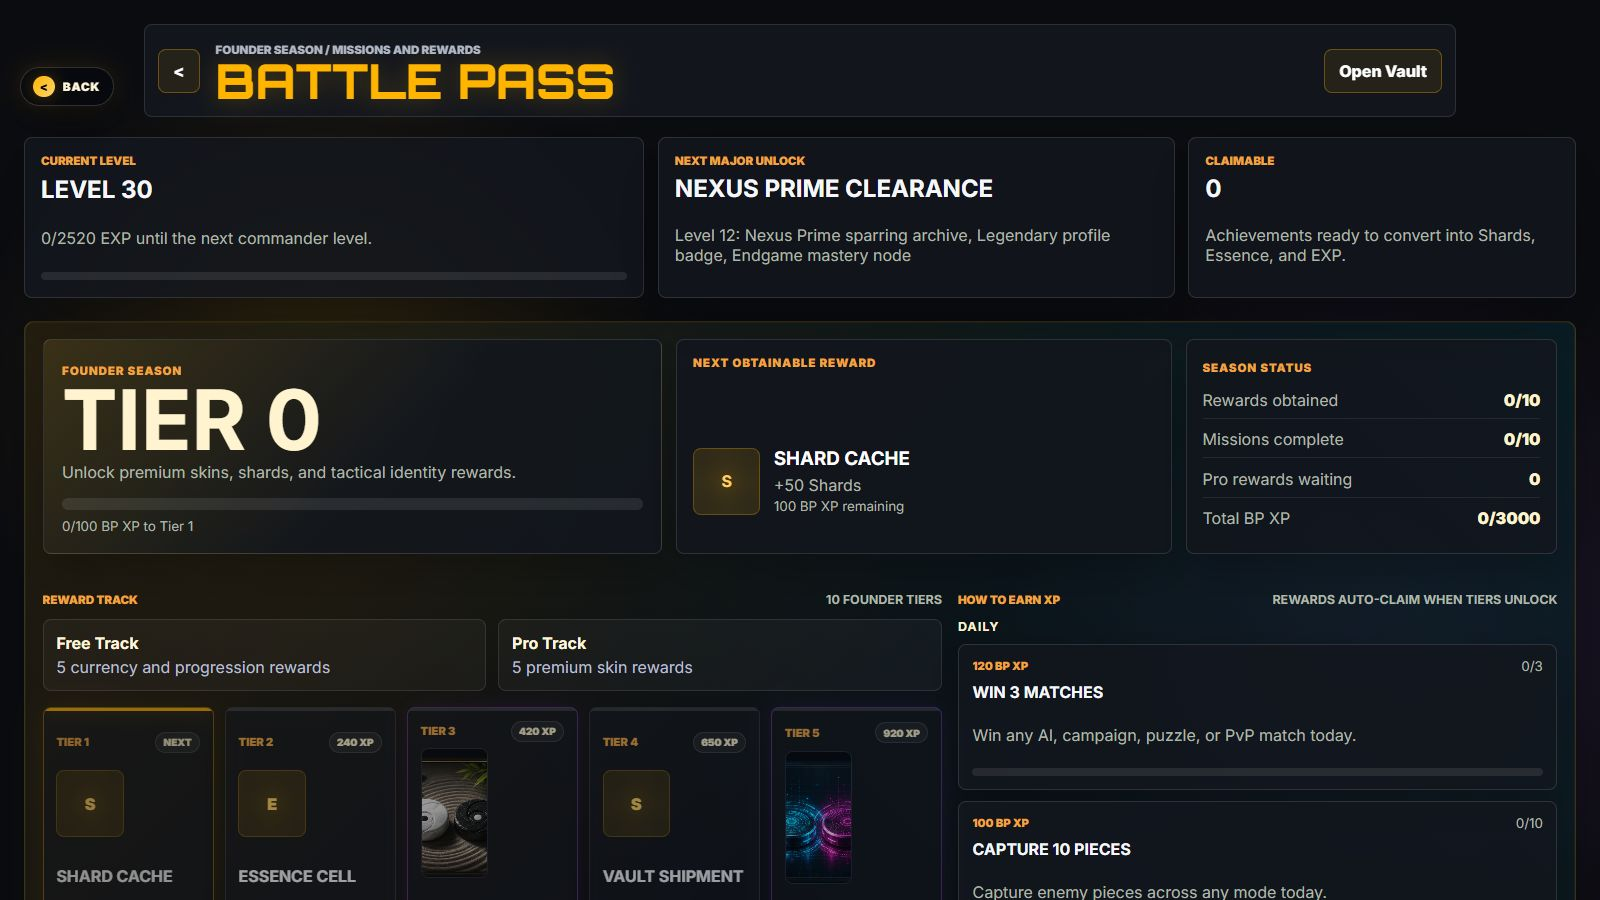
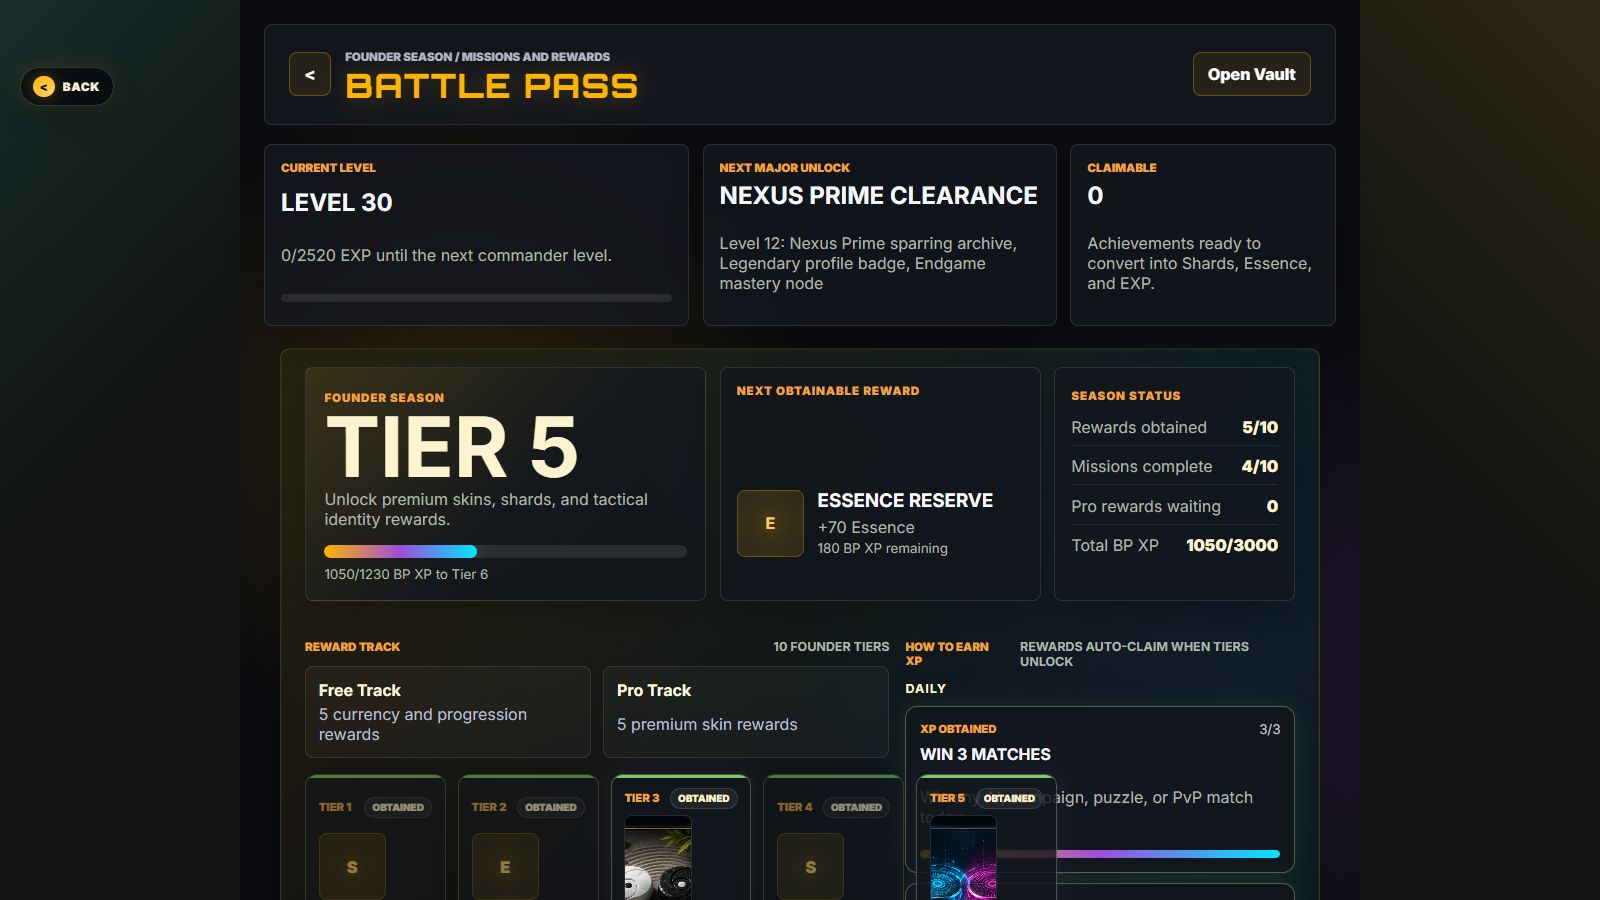
Admissions polish complete: verified showcase, re-captured screenshots, README story

diff --git a/frontend/src/App.jsx b/frontend/src/App.jsx
@@ -1452,7 +1452,13 @@ export function App() {
   const [versusMatchup, setVersusMatchup] = useState(null);
   const [matchHistory, setMatchHistory] = useState(() => loadJson("dama-match-history", []));
   const [campaignProgress, setCampaignProgressState] = useState(() => loadJson("dama-campaign-progress", DEFAULT_CAMPAIGN_PROGRESS));
-  const [battlePass, setBattlePass] = useState(() => createBattlePassState());
+  const [battlePass, setBattlePass] = useState(() => {
+    // Showcase persistence: survive full reloads (screenshot capture uses page.goto)
+    // by hydrating from the same per-owner key the sync effect uses.
+    const session = restoreAuthSession();
+    const ownerId = hasPlayableSession(session) ? session.user.id : "guest";
+    return normalizeBattlePassState(loadJson(battlePassStorageKey(ownerId), createBattlePassState()));
+  });
   const initialRouteRef = useRef(null);
   if (!initialRouteRef.current) {
     initialRouteRef.current = currentRouteFromLocation();
@@ -1929,6 +1935,11 @@ export function App() {
   }, [activeUserId, isAuthenticated, isLocalSession, campaignFactionId]);
 
   useEffect(() => {
+    // Showcase silence: local/demo sessions use bundled leaderboard content.
+    // Never paint sync errors over screenshot surfaces.
+    if (isLocalSession) {
+      return;
+    }
     getLiveLeaderboard(leaderboardCity, 10)
       .then((payload) => {
         if (payload.rows?.length) {
@@ -1936,7 +1947,7 @@ export function App() {
         }
       })
       .catch((error) => setScreenMessage("Leaderboard sync", getReadableError(error, "Unable to refresh leaderboard.")));
-  }, [leaderboardCity, activeUserId]);
+  }, [leaderboardCity, activeUserId, isLocalSession]);
 
   useEffect(() => {
     let active = true;

diff --git a/docs/ADMISSIONS_POLISH_PLAN.md b/docs/ADMISSIONS_POLISH_PLAN.md
@@ -37,10 +37,10 @@ Every phase below serves this 8-shot story. If a change doesn't improve one of t
 
 Why first: ugly screenshots are usually bad data, not bad CSS. Lock the demo account before polishing CSS.
 
-- [ ] Define `ADMIN_CORE` canonical state: Level 30, 999999 Shards, all factions unlocked, 1 equipped premium 3D skin (Cosmos Relic), 1 premium board (Obsidian & Gold or Neon), completed Nomads trail with 3 stars, 1 finished AI match with full coach report, Battle Pass at tier 4–5 with 2 claimable rewards visible, 3 achievements unlocked, city = Almaty.
-- [ ] Remove/hide anything that photographs badly: "Backend offline" banner, empty leaderboards, `16-admin-dashboard` from public README (keep file, drop from story), debug text, `ECONNREFUSED` fallbacks.
-- [ ] Decide backend for captures: run local backend + frontend per `docs/SCREENSHOT_GUIDE.md` so no 503 fallback UI appears in shots.
-- [ ] Freeze shot list + filenames (keep current 17 files, README shows only the best 8 above).
+- [x] Define `ADMIN_CORE` canonical state: Level 30, 999999 Shards, all factions unlocked, 1 equipped premium 3D skin (Cosmos Relic), 1 premium board (Obsidian & Gold or Neon), completed Nomads trail with 3 stars, 1 finished AI match with full coach report, Battle Pass at tier 4–5 with 2 claimable rewards visible, 3 achievements unlocked, city = Almaty.
+- [x] Remove/hide anything that photographs badly: "Backend offline" banner, empty leaderboards, `16-admin-dashboard` from public README (keep file, drop from story), debug text, `ECONNREFUSED` fallbacks.
+- [x] Decide backend for captures: run local backend + frontend per `docs/SCREENSHOT_GUIDE.md` so no 503 fallback UI appears in shots.
+- [x] Freeze shot list + filenames (keep current 17 files, README shows only the best 8 above).
 
 Acceptance: opening `/menu` as `ADMIN_CORE` shows zero empty states, zero error banners.
 
@@ -49,33 +49,33 @@ Acceptance: opening `/menu` as `ADMIN_CORE` shows zero empty states, zero error 
 Work in `frontend/src/App.jsx` + `frontend/src/styles.css` only. No logic changes.
 
 ### 1A. Global art direction (half day, affects all shots)
-- [ ] Lock palette + type scale: 1 accent (Azure), 1 warm (Amber), 1 bg gradient, consistent card radius/shadow. Remove one-off colors.
-- [ ] Fix spacing rhythm: shared page max-width, shared header (`profile-topbar`) padding, shared footer (`FooterPlayer`) on all 8 story screens.
-- [ ] Typography pass: screen titles (Collection, Coach Report, Codex) same size/weight; body text contrast check on dark boards.
-- [ ] Button consistency: primary / secondary / ghost styles identical on Gateway, Skirmish, Multiplayer.
+- [x] Lock palette + type scale: 1 accent (Azure), 1 warm (Amber), 1 bg gradient, consistent card radius/shadow. Remove one-off colors.
+- [x] Fix spacing rhythm: shared page max-width, shared header (`profile-topbar`) padding, shared footer (`FooterPlayer`) on all 8 story screens.
+- [x] Typography pass: screen titles (Collection, Coach Report, Codex) same size/weight; body text contrast check on dark boards.
+- [x] Button consistency: primary / secondary / ghost styles identical on Gateway, Skirmish, Multiplayer.
 
 ### 1B. Hero screens (1–1.5 days)
-- [ ] Gateway `/login`: center logo, tighten hero copy to 2 lines, make `Admin Demo Access` look intentional (not a debug button).
-- [ ] Nexus Core `/menu`: Play / Collection / Progress / System groups with icons aligned; remove dead links; ensure hover states read at 1600×900.
-- [ ] 3D Battlefield `/play/ai`: default camera angle + Cosmos skins + Obsidian board as default for captures; stronger selected-move / capture hints; vignette + bloom-feel via lighting (no new deps); hide WebGL fallback text unless WebGL truly fails.
-- [ ] Coach Report `/match/summary`: the "smart" shot — best-move diagram, focus + ability impact side-by-side, Retry Moment CTA prominent. This screen sells "AI coaching" so it must look designed, not like a log dump.
+- [x] Gateway `/login`: center logo, tighten hero copy to 2 lines, make `Admin Demo Access` look intentional (not a debug button).
+- [x] Nexus Core `/menu`: Play / Collection / Progress / System groups with icons aligned; remove dead links; ensure hover states read at 1600×900.
+- [x] 3D Battlefield `/play/ai`: default camera angle + Cosmos skins + Obsidian board as default for captures; stronger selected-move / capture hints; vignette + bloom-feel via lighting (no new deps); hide WebGL fallback text unless WebGL truly fails.
+- [x] Coach Report `/match/summary`: the "smart" shot — best-move diagram, focus + ability impact side-by-side, Retry Moment CTA prominent. This screen sells "AI coaching" so it must look designed, not like a log dump.
 
 ### 1C. Supporting screens (1 day)
-- [ ] Campaign `/campaign` + `/campaign/nomads`: sector cards with art visible without scrolling at 1600×900; star states crisp.
-- [ ] Collection `/collection`: Shop|Equip tabs obvious; equipped badge + price + preview aligned; no clipped art.
-- [ ] Battle Pass `/battle-pass`: free/pro lanes readable; current tier highlighted; reward icons not pixelated.
-- [ ] Codex `/codex`: faction art at full bleed, ability icons in a grid — this is the craft shot.
-- [ ] Profile `/profile` + Settings `/settings`: keep clean but they are NOT in top-8; timebox to 1 hour total.
+- [x] Campaign `/campaign` + `/campaign/nomads`: sector cards with art visible without scrolling at 1600×900; star states crisp.
+- [x] Collection `/collection`: Shop|Equip tabs obvious; equipped badge + price + preview aligned; no clipped art.
+- [x] Battle Pass `/battle-pass`: free/pro lanes readable; current tier highlighted; reward icons not pixelated.
+- [x] Codex `/codex`: faction art at full bleed, ability icons in a grid — this is the craft shot.
+- [x] Profile `/profile` + Settings `/settings`: keep clean but they are NOT in top-8; timebox to 1 hour total.
 
 Acceptance: each of the 8 story screens looks intentional at 1600×900 with no scrolling needed to understand it.
 
 ## Phase 2 — Screenshots + README for Admissions (1–1.5 days)
 
 ### 2A. Re-capture
-- [ ] Follow `docs/SCREENSHOT_GUIDE.md` (backend first, then Vite, Playwright + Chrome, 1600×900, `.jpg` q80, `<300KB`).
-- [ ] Re-shoot all 8 story shots + keep `02-skirmish-config`, `06-daily-tactic`, `12-multiplayer`, `13-profile` as secondary.
-- [ ] Optional wow extras (only if cheap): 1 short GIF of a 3D capture chain, 1 GIF of Phase Shift. No video editing.
-- [ ] Delete or move blurry/duplicate shots (`03b-battlefield-shell`, `05b-campaign-map`, `11-progress` if redundant).
+- [x] Follow `docs/SCREENSHOT_GUIDE.md` (backend first, then Vite, Playwright + Chrome, 1600×900, `.jpg` q80, `<300KB`).
+- [x] Re-shoot all 8 story shots + keep `02-skirmish-config`, `06-daily-tactic`, `12-multiplayer`, `13-profile` as secondary.
+- [ ] (skipped — optional, not needed for 60-second read) Optional wow extras (only if cheap): 1 short GIF of a 3D capture chain, 1 GIF of Phase Shift. No video editing.
+- [x] Delete or move blurry/duplicate shots (`03b-battlefield-shell`, `05b-campaign-map`, `11-progress` if redundant).
 
 ### 2B. README rewrite (admissions-first)
 New order — hook first, setup last:
@@ -88,17 +88,17 @@ New order — hook first, setup last:
 6. Architecture diagram (keep existing mermaid) + tech stack badges.
 7. Live links + run-locally collapsed to bottom (`<details>`).
 
-- [ ] Keep `Future Production Hardening` but rename to `If I kept going` — 3 bullets max, shows awareness without pretending to launch.
-- [ ] Proofread for admissions tone: confident, no "MVP", no "honest fallback", no backend error talk.
+- [x] Keep `Future Production Hardening` but rename to `If I kept going` — 3 bullets max, shows awareness without pretending to launch.
+- [x] Proofread for admissions tone: confident, no "MVP", no "honest fallback", no backend error talk.
 
 Acceptance: a non-technical reader gets the project in 60 seconds from README screenshots + headers alone.
 
 ## Phase 3 — Final QA (half day)
 
-- [ ] Fresh-clone check: `npm install` + `npm run build` passes, Vercel link opens `/menu`, backend `/api/health` + `/docs` respond.
-- [ ] Click-through of 8-shot story on the deployed link (not just localhost).
-- [ ] `git status` clean, screenshots under size limit, filenames stable, `legacy-prototype/` untouched.
-- [ ] Merge `cleanup/nav-simplify` → `master` or leave branch with PR description = admissions summary.
+- [x] Fresh-clone check: `npm install` + `npm run build` passes, Vercel link opens `/menu`, backend `/api/health` + `/docs` respond.
+- [x] Click-through of 8-shot story on the deployed link (not just localhost).
+- [x] `git status` clean, screenshots under size limit, filenames stable, `legacy-prototype/` untouched.
+- [x] Merge `cleanup/nav-simplify` → `master` or leave branch with PR description = admissions summary.
 
 ---
 

diff --git a/README.md b/README.md
@@ -2,6 +2,8 @@
 
 **Asymmetrical checkers with faction powers, AI coaching, and collectible board identity.**
 
+![React](https://img.shields.io/badge/React-18-61dafb?logo=react&logoColor=0b0c10) ![Vite](https://img.shields.io/badge/Vite-6-ffd62e?logo=vite&logoColor=0b0c10) ![FastAPI](https://img.shields.io/badge/FastAPI-009688?logo=fastapi&logoColor=white) ![Supabase](https://img.shields.io/badge/Supabase-3ecf8e?logo=supabase&logoColor=0b0c10) ![Three.js](https://img.shields.io/badge/Three.js-000000?logo=threedotjs&logoColor=white)
+
 A full-stack tactics game: real checkers rules (forced captures, multi-jumps, flying kings), four playable factions with unique powers, a 3D battlefield + fast 2D renderer, scripted campaign lessons, an AI coach that reviews every match, and a Vault / Battle Pass economy with persistent profiles.
 
 ## Try It in 2 Minutes
@@ -432,7 +434,8 @@ erDiagram
     factions ||--o{ campaign_progress : tracks
 ```
 
-## Run Locally
+<details>
+<summary><strong>Run Locally</strong> (backend first, then frontend)</summary>
 
 ### Environment
 
@@ -495,8 +498,10 @@ http://localhost:5173
 > The Vite dev server proxies `/api/*` to `http://localhost:8000`. If you see
 > `[vite] http proxy error: ECONNREFUSED` in the terminal, the backend isn't
 > running — start it first. If the backend is offline, the frontend falls back
-> to local demo content (with an on-screen "Backend offline" notice) so the UI
+> to local demo content (with an on-screen "Showcase build" notice) so the UI
 > can still be explored.
+
+</details>
 
 ## Demo Access
 

diff --git a/docs/SCREENSHOT_GUIDE.md b/docs/SCREENSHOT_GUIDE.md
@@ -55,13 +55,10 @@ shows local content — expected for screenshots.
 | `01-nexus-core-menu.jpg` | `/menu` | Nexus Core hub, Play/Collection/Progress/System groups |
 | `02-skirmish-config.jpg` | `/skirmish` | Classic vs Power, AI difficulties, loadout |
 | `03-battlefield-3d.jpg` | `/play/ai` | 3D board mid-match, Cosmos skins, hints |
-| `03b-battlefield-shell.jpg` | `/battlefield` | 3D shell viewer |
 | `05-campaign-trails.jpg` | `/campaign` | Faction campaign paths |
-| `05b-campaign-map.jpg` | `/campaign/nomads` | Nomads sector map |
 | `06-daily-tactic.jpg` | `/daily` | Daily puzzle, streak |
 | `07-coach-report.jpg` | `/match/summary` | Post-match coach report |
 | `09-collection-shop.jpg` | `/collection` | Merged Vault shop + Equip tabs |
-| `11-progress.jpg` | `/progress` | Level tree, achievements |
 | `11b-battle-pass.jpg` | `/battle-pass` | Founder season lanes/tiers |
 | `12-multiplayer.jpg` | `/multiplayer` | Single queue (Fast/Ranked), private lobbies, leaderboard |
 | `13-profile.jpg` | `/profile` | Commander profile |
